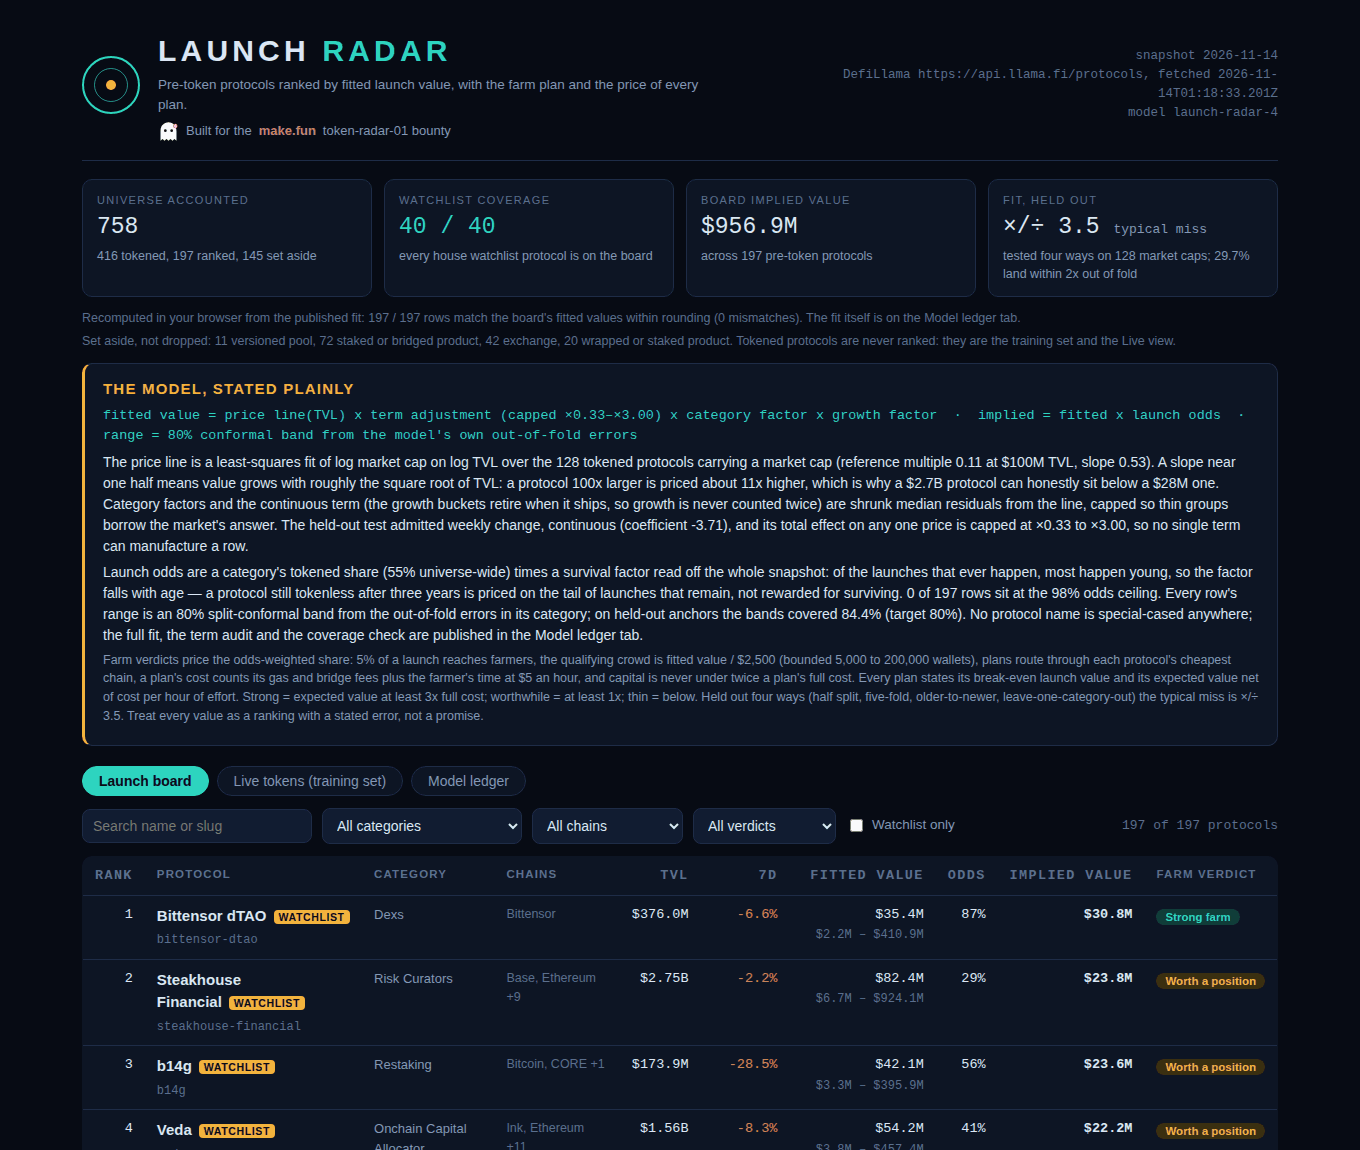
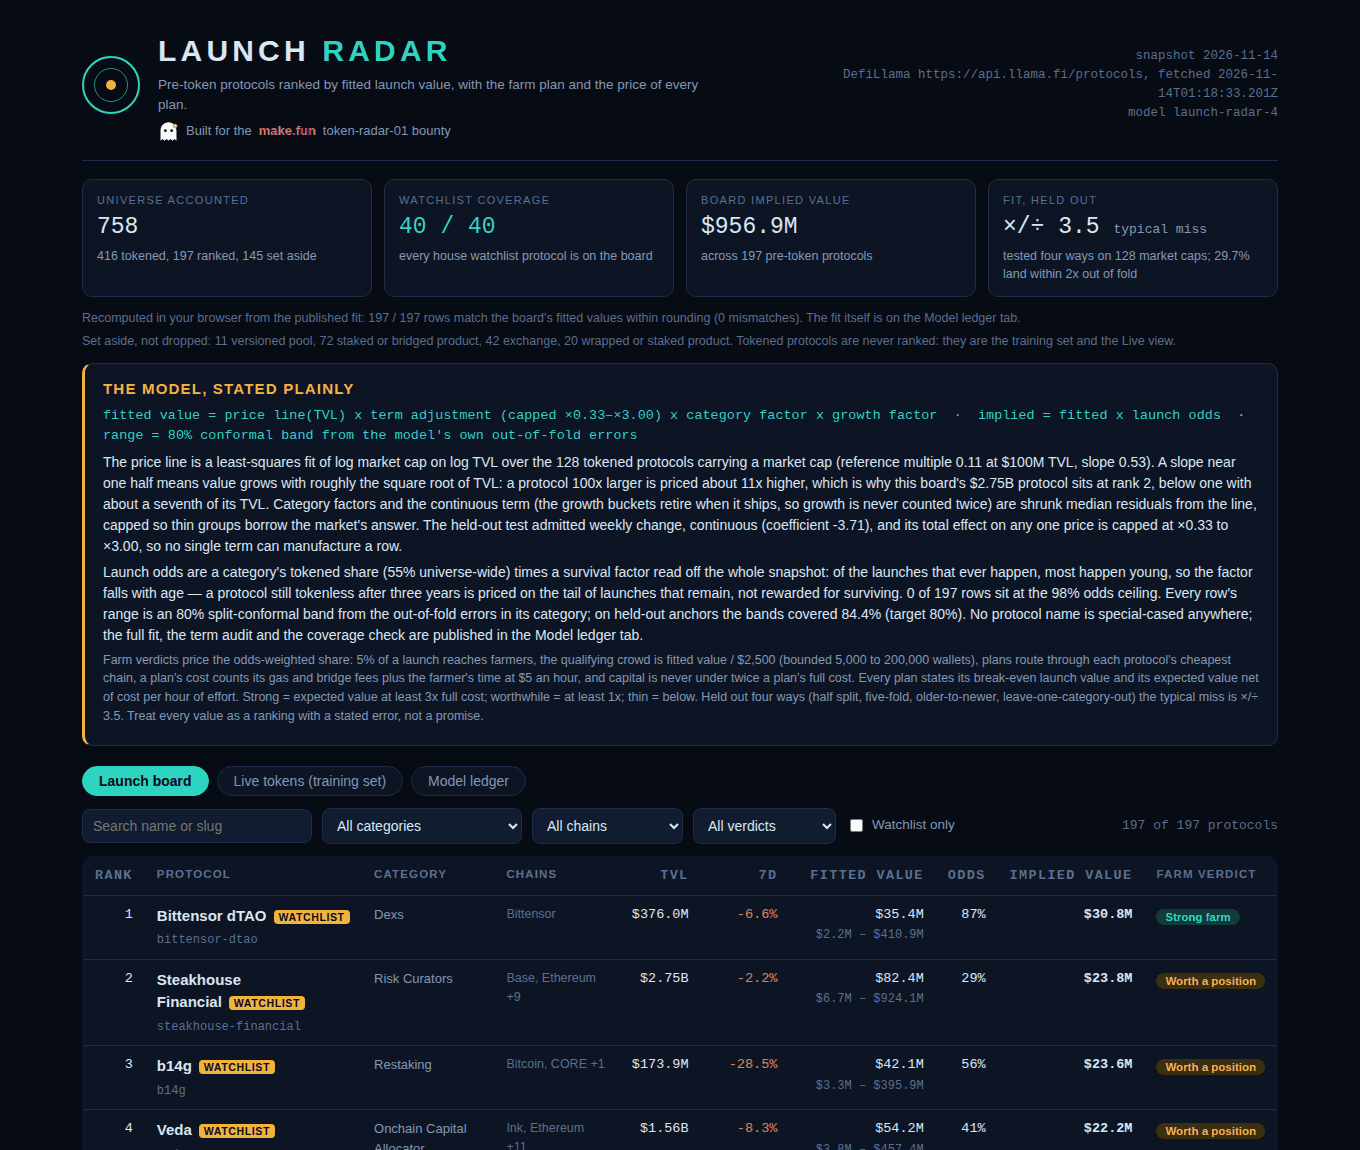
v3.1 audit fixes: replace stale v2 slope example with the true v3 pairing (Steakhouse rank 2 below dTAO), negative $/hour renders as -$x, age-band composition note in the ledger

Changed region(s): [[0.0618, 0.3957, 0.9265, 0.487]]

diff --git a/dashboard/app.js b/dashboard/app.js
@@ -155,7 +155,7 @@
     var growth = L.growth_factors_active ? 'growth-bucket factors' : 'the continuous term (the growth buckets retire when it ships, so growth is never counted twice)';
     return '<section class="model"><h2>The model, stated plainly</h2>' +
       '<p class="formula">fitted value = price line(TVL) x term adjustment (capped ×0.33–×3.00) x category factor x growth factor &nbsp;·&nbsp; implied = fitted x launch odds &nbsp;·&nbsp; range = 80% conformal band from the model\'s own out-of-fold errors</p>' +
-      '<p>The price line is a least-squares fit of log market cap on log TVL over the ' + f.train_size + ' tokened protocols carrying a market cap (reference multiple ' + f.reference_multiple.toFixed(2) + ' at $100M TVL, slope ' + f.slope.toFixed(2) + '). A slope near one half means value grows with roughly the square root of TVL: a protocol 100x larger is priced about 11x higher, which is why a $2.7B protocol can honestly sit below a $28M one. Category factors and ' + growth + ' are shrunk median residuals from the line, capped so thin groups borrow the market\'s answer.' + terms + '</p>' +
+      '<p>The price line is a least-squares fit of log market cap on log TVL over the ' + f.train_size + ' tokened protocols carrying a market cap (reference multiple ' + f.reference_multiple.toFixed(2) + ' at $100M TVL, slope ' + f.slope.toFixed(2) + '). A slope near one half means value grows with roughly the square root of TVL: a protocol 100x larger is priced about 11x higher, which is why this board\'s $2.75B protocol sits at rank 2, below one with about a seventh of its TVL. Category factors and ' + growth + ' are shrunk median residuals from the line, capped so thin groups borrow the market\'s answer.' + terms + '</p>' +
       '<p>Launch odds are a category\'s tokened share (' + pct(f.global_launch_rate, 0) + ' universe-wide) times a survival factor read off the whole snapshot: of the launches that ever happen, most happen young, so the factor falls with age — a protocol still tokenless after three years is priced on the tail of launches that remain, not rewarded for surviving. ' + atCeiling + ' of ' + rows.length + ' rows sit at the 98% odds ceiling. Every row\'s range is an 80% split-conformal band from the out-of-fold errors in its category; on held-out anchors the bands covered ' + f.conformal_coverage_pct + '% (target 80%). No protocol name is special-cased anywhere; the full fit, the term audit and the coverage check are published in the Model ledger tab.</p>' +
       '<p class="fine">Farm verdicts price the odds-weighted share: 5% of a launch reaches farmers, the qualifying crowd is fitted value / $2,500 (bounded 5,000 to 200,000 wallets), plans route through each protocol\'s cheapest chain, a plan\'s cost counts its gas and bridge fees plus the farmer\'s time at $5 an hour, and capital is never under twice a plan\'s full cost. Every plan states its break-even launch value and its expected value net of cost per hour of effort. Strong = expected value at least 3x full cost; worthwhile = at least 1x; thin = below. Held out four ways (half split, five-fold, older-to-newer, leave-one-category-out) the typical miss is ×/÷ ' + f.typical_miss_factor.toFixed(1) + '. Treat every value as a ranking with a stated error, not a promise.</p></section>';
   }
@@ -232,13 +232,13 @@
       '</div>' +
       '<div class="terms">' +
       '<div class="term"><div class="k">Break-even launch value</div><div class="v">' + moneyFull(r.farm.breakeven_fdv_usd) + '</div></div>' +
-      '<div class="term"><div class="k">Net value per hour of effort</div><div class="v">$' + r.farm.usd_per_hour.toFixed(2) + '</div></div>' +
+      '<div class="term"><div class="k">Net value per hour of effort</div><div class="v">' + (r.farm.usd_per_hour < 0 ? '-$' + Math.abs(r.farm.usd_per_hour).toFixed(2) : '$' + r.farm.usd_per_hour.toFixed(2)) + '</div></div>' +
       '<div class="term"><div class="k">Effort</div><div class="v">' + r.farm.effort_hours.toFixed(1) + ' hours over ' + r.farm.weeks + ' weeks</div></div>' +
       '<div class="term"><div class="k">Position</div><div class="v">' + moneyFull(r.farm.capital_usd) + ' via ' + esc(r.farm.entry_chain) + '</div></div>' +
       '<div class="term"><div class="k">All-in cost</div><div class="v">$' + r.farm.total_cost_usd.toFixed(2) + '</div></div>' +
       '</div>' +
       '<h3>Farm plan: ' + moneyFull(r.farm.capital_usd) + ' for ' + r.farm.weeks + ' weeks via ' + esc(r.farm.entry_chain) + ', about $' + r.farm.total_cost_usd.toFixed(2) + ' all in</h3>' +
-      '<p style="margin:4px 0">Expected share at the fitted value: <strong>' + moneyFull(r.farm.expected_share_usd) + '</strong> per qualifying wallet, which the ' + pct(m.launch_odds) + ' launch odds weight to <strong>' + moneyFull(r.farm.expected_value_usd) + '</strong> — ' + r.farm.ratio.toFixed(1) + 'x the plan\'s cost, $' + r.farm.usd_per_hour.toFixed(2) + ' per hour of effort, break-even at a ' + money(r.farm.breakeven_fdv_usd) + ' launch. ' + verdictChip(r.farm.verdict) + '</p>' +
+      '<p style="margin:4px 0">Expected share at the fitted value: <strong>' + moneyFull(r.farm.expected_share_usd) + '</strong> per qualifying wallet, which the ' + pct(m.launch_odds) + ' launch odds weight to <strong>' + moneyFull(r.farm.expected_value_usd) + '</strong> — ' + r.farm.ratio.toFixed(1) + 'x the plan\'s cost, ' + (r.farm.usd_per_hour < 0 ? '-$' + Math.abs(r.farm.usd_per_hour).toFixed(2) : '$' + r.farm.usd_per_hour.toFixed(2)) + ' per hour of effort, break-even at a ' + money(r.farm.breakeven_fdv_usd) + ' launch. ' + verdictChip(r.farm.verdict) + '</p>' +
       '<ol>' + steps + '</ol></section>';
   }
 
@@ -271,7 +271,7 @@
       return '<tr><td>' + esc(a.label) + '</td><td class="num">' + a.n + '</td><td class="num">' + a.tokened + '</td><td class="num">' + pct(a.survival, 0) + '</td><td class="num">' + a.multiplier.toFixed(2) + 'x</td></tr>';
     }).join('');
     var ageBlock = '<h3>Launch odds by age band: the survival read</h3><table><thead><tr><th>Age band</th><th class="num">Protocols</th><th class="num">Tokened</th><th class="num">Launches still to come</th><th class="num">Multiplier</th></tr></thead><tbody>' + ages + '</tbody></table>' +
-      '<p class="fine">Survival is the share of launches that happen after the band\'s age, read off the whole universe Kaplan-Meier style (a tokened protocol is an event at its current age, an upper bound; a pre-token one is censored there). A row\'s odds are its category\'s tokened share times its own survival factor, clamped between 1% and 98%: the older a protocol stays tokenless, the smaller the share of launches left for it.</p>';
+      '<p class="fine">Survival is the share of launches that happen after the band\'s age, read off the whole universe Kaplan-Meier style (a tokened protocol is an event at its current age, an upper bound; a pre-token one is censored there). A row\'s odds are its category\'s tokened share times its own survival factor, clamped between 1% and 98%: the older a protocol stays tokenless, the smaller the share of launches left for it. Board averages by band also mix categories; within any one category, odds fall with age.</p>';
     var anchors = L.anchors.slice(0, 24).map(function (a) {
       return '<tr><td><span class="name">' + esc(a.name) + '</span></td><td class="num">' + money(a.tvl_usd) + '</td><td class="num">' + money(a.actual_mcap_usd) + '</td><td class="num">' + money(a.fitted_fdv_usd) + '</td></tr>';
     }).join('');

diff --git a/lib/model.ts b/lib/model.ts
@@ -891,7 +891,7 @@ export function farmMath(p: SnapshotProtocol, priced: Priced): FarmMath {
 }
 
 const money = (n: number): string => `$${Math.round(n).toLocaleString('en-US')}`;
-const money2 = (n: number): string => `$${n.toFixed(2)}`;
+const money2 = (n: number): string => (n < 0 ? `-$${Math.abs(n).toFixed(2)}` : `$${n.toFixed(2)}`);
 
 /** The category's core position action, in words a farmer can follow. */
 function coreAction(p: SnapshotProtocol, capital: number, chain: string): string {
